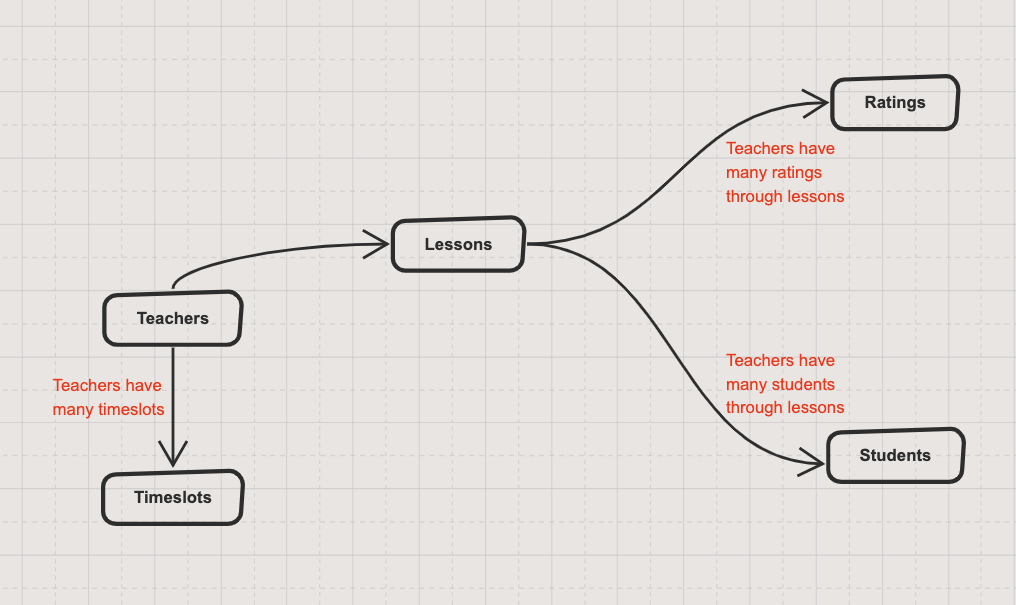
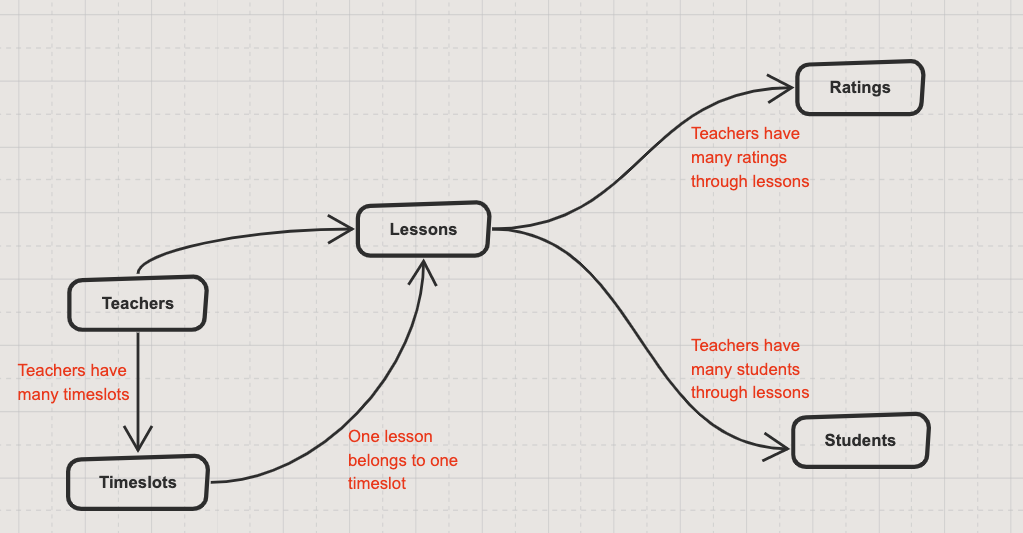
finishes fixing associations hopefully

diff --git a/app/models/teacher.rb b/app/models/teacher.rb
@@ -13,4 +13,6 @@ class Teacher < ApplicationRecord
   validates :username, :email, :skype_id, :photo_url, uniqueness: true
   # https://apidock.com/rails/ActiveModel/Validations/ClassMethods/validates_format_of
   validates_format_of :email, :with => /\A([^@\s]+)@((?:[-a-z0-9]+\.)+[a-z]{2,})\Z/i, :on => :create
+  # https://stackoverflow.com/questions/23158080/full-name-regex-in-ruby
+  validates_format_of :name, :with => /([\w\-\']{2,})([\s]+)([\w\-\']{2,})/, :on => :create
 end

diff --git a/app/models/student.rb b/app/models/student.rb
@@ -9,4 +9,5 @@ class Student < ApplicationRecord
   validates :username, length: { minimum: 4 }
   validates :username, :email, :skype_id, :photo_url, uniqueness: true
   validates_format_of :email, :with => /\A([^@\s]+)@((?:[-a-z0-9]+\.)+[a-z]{2,})\Z/i, :on => :create
+  validates_format_of :name, :with => /([\w\-\']{2,})([\s]+)([\w\-\']{2,})/, :on => create
 end

diff --git a/db/migrate/20190916233621_create_ratings.rb b/db/migrate/20190916233621_create_ratings.rb
@@ -3,8 +3,8 @@ class CreateRatings < ActiveRecord::Migration[5.2]
     create_table :ratings do |t|
       t.string :comment
       t.integer :rating
-      t.integer :teacher_id
-      t.integer :student_id
+      # t.integer :teacher_id
+      # t.integer :student_id
       t.integer :lesson_id
       t.timestamps
     end

diff --git a/db/seeds.rb b/db/seeds.rb
@@ -5,7 +5,9 @@
 #
 #   movies = Movie.create([{ name: 'Star Wars' }, { name: 'Lord of the Rings' }])
 #   Character.create(name: 'Luke', movie: movies.first)
-require "faker"
+
+
+# require "faker"
 require "bcrypt"
 # https://stackoverflow.com/questions/31026248/encrypt-users-password-in-seed-file (second answer)
 

diff --git a/app/controllers/ratings_controller.rb b/app/controllers/ratings_controller.rb
@@ -34,7 +34,7 @@ class RatingsController < ApplicationController
 
   private
 
-  # TODO -- add foreign keys?
+  # TODO -- add foreign keys
   def rating_params
     params.require(:rating).permit(:comment, :rating)
   end

diff --git a/app/models/lesson.rb b/app/models/lesson.rb
@@ -2,5 +2,5 @@ class Lesson < ApplicationRecord
   belongs_to :teacher
   belongs_to :student
   belongs_to :timeslot
-  has_one :rating
+  # has_one :rating
 end

diff --git a/app/models/timeslot.rb b/app/models/timeslot.rb
@@ -1,4 +1,4 @@
 class Timeslot < ApplicationRecord
   belongs_to :teacher
-  has_one :lesson
+  has_one :lesson, optional: true
 end
